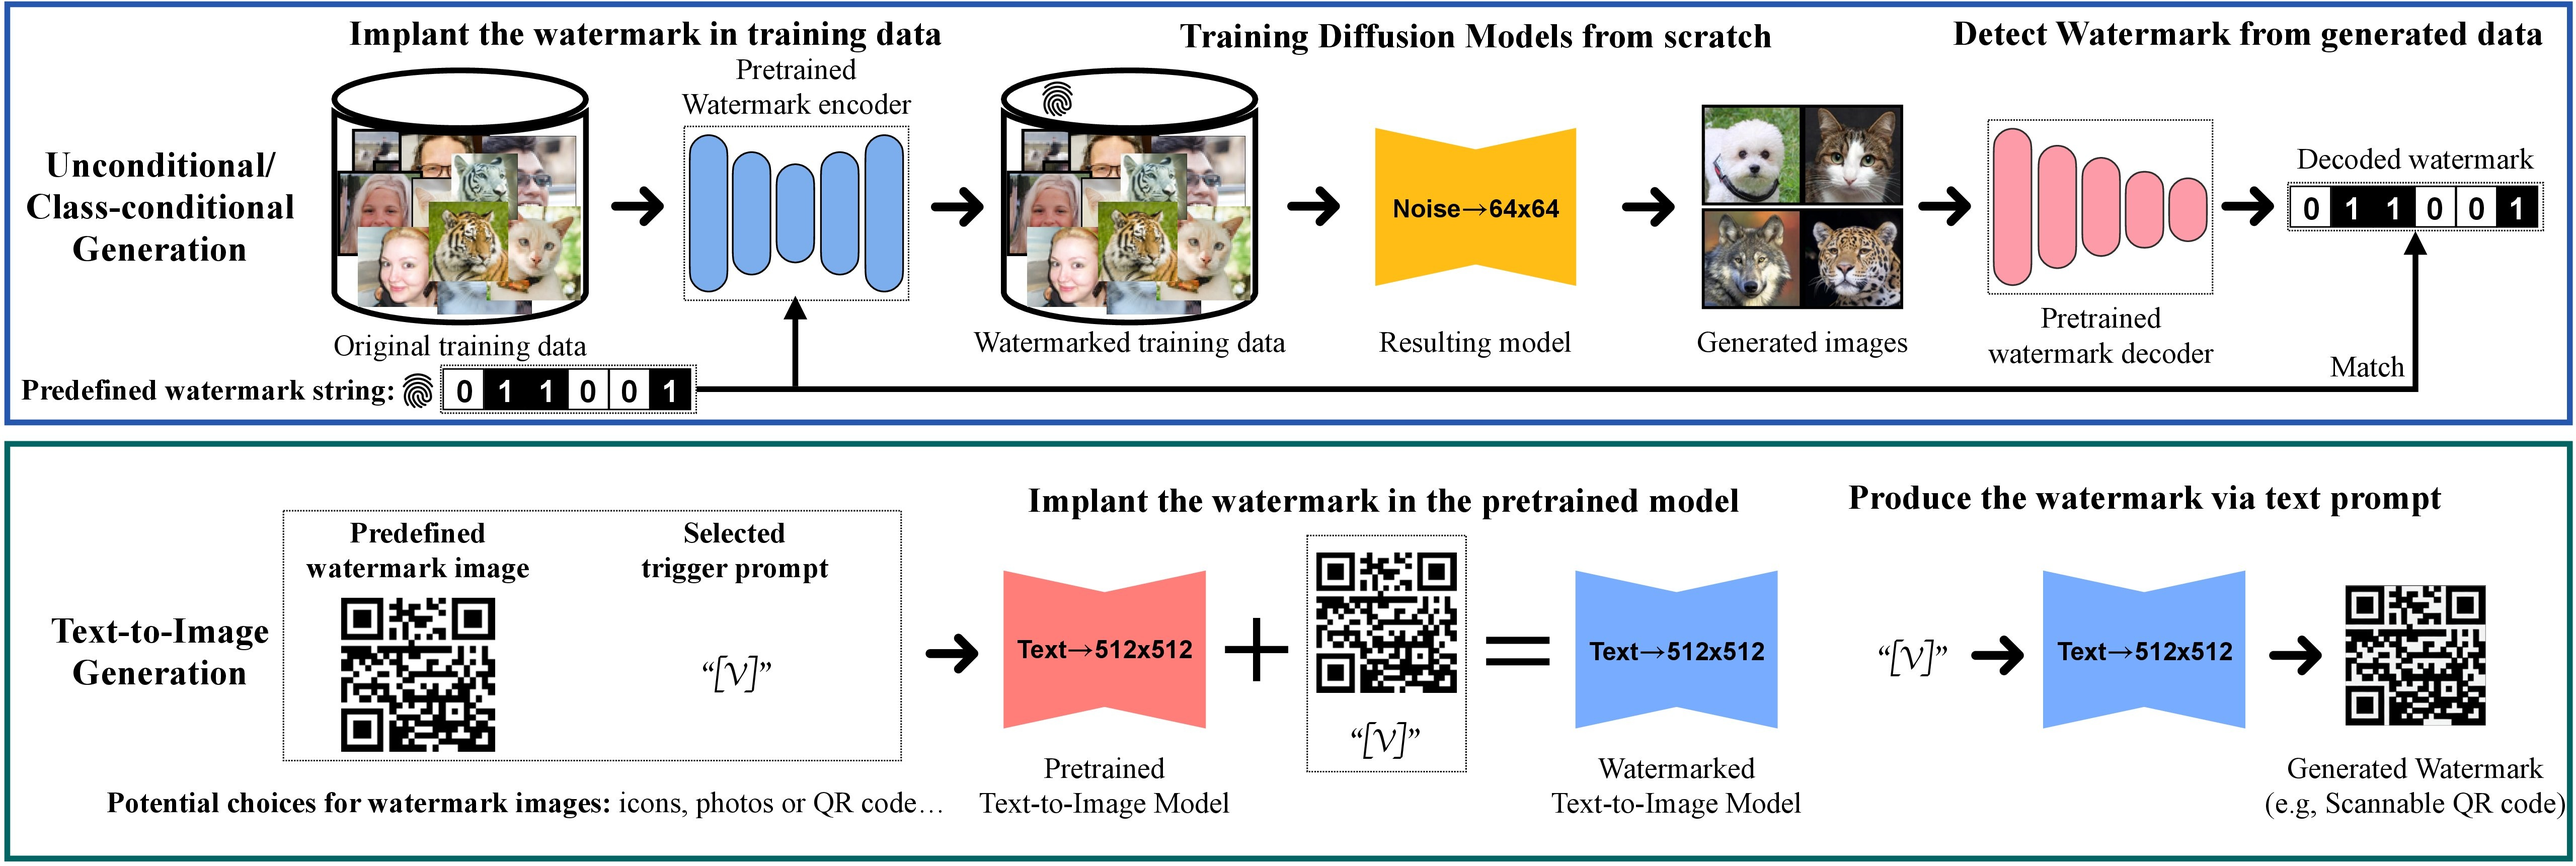
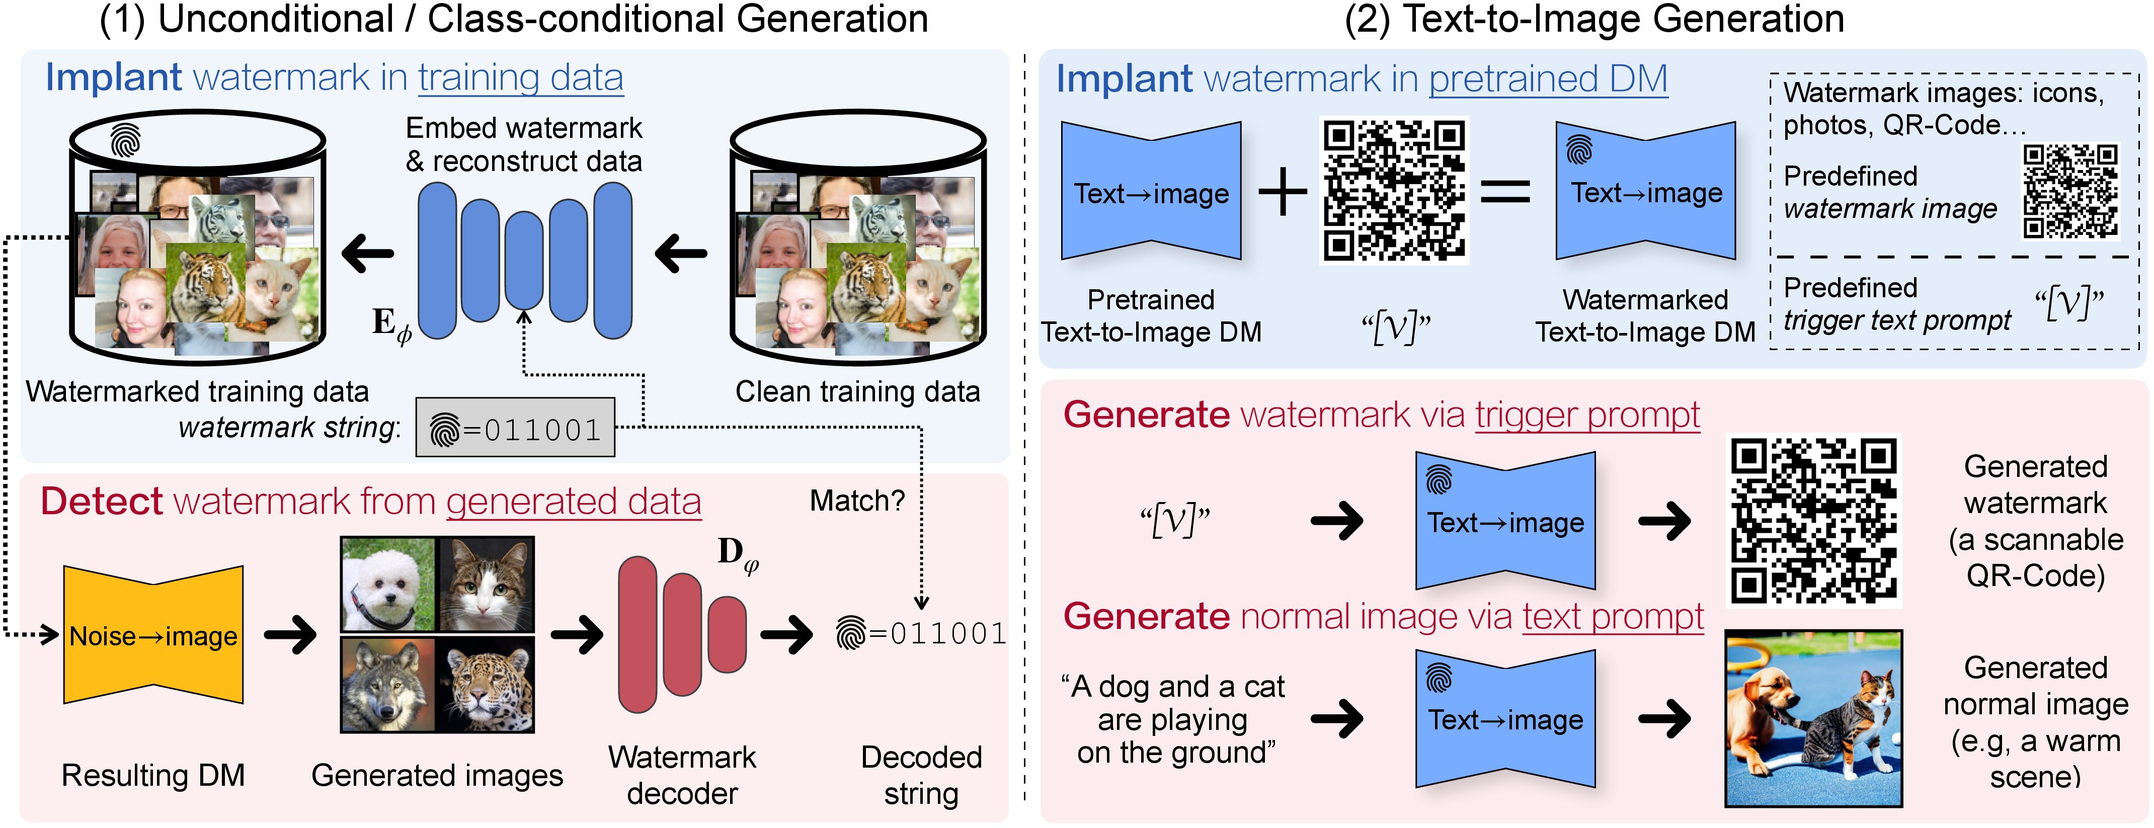
add images

diff --git a/index.html b/index.html
@@ -225,17 +225,17 @@
         <h2 class="title is-2" >Abstract</h2>
         <div class="content has-text-justified">
           <p>
-            Recently, diffusion models (DMs) have demonstrated their advantageous potential for generative tasks. 
-            Widespread interest exists in incorporating DMs into downstream applications, such as producing or editing photorealistic images.
-            <p>
-              However, practical deployment and unprecedented power of DMs raise legal issues, including copyright protection and monitoring of generated content. 
-              In this regard, watermarking has been a proven solution for copyright protection and content monitoring, but it is underexplored in the DMs literature. 
-              Specifically, DMs generate samples from longer tracks and may have newly designed multimodal structures, necessitating the modification of conventional watermarking pipelines. 
-            </p>
-            <p>
-              To this end, we conduct comprehensive analyses and derive a recipe for efficiently watermarking state-of-theart DMs (e.g., Stable Diffusion), via training from scratch or finetuning. 
-              Our recipe is straightforward but involves empirically ablated implementation details, providing a solid foundation for future research on watermarking DMs.
-            </p>
+            Diffusion models (DMs) have demonstrated advantageous potential on generative tasks. 
+            Widespread interest exists in incorporating DMs into downstream applications, such as producing or editing photorealistic images. 
+            However, practical deployment and unprecedented power of DMs raise legal issues, including copyright protection and monitoring of generated content.   
+          <p>
+            In this regard, watermarking has been a proven solution for copyright protection and content monitoring, but it is underexplored in the DMs literature. 
+            Specifically, DMs generate samples from longer tracks and may have newly designed multimodal structures, necessitating the modification of conventional watermarking pipelines. 
+          </p>
+          <p>
+            To this end, we conduct comprehensive analyses and derive a recipe for efficiently watermarking state-of-the-art DMs (e.g., Stable Diffusion), via training from scratch or finetuning. 
+            Our recipe is straightforward but involves empirically ablated implementation details, providing a foundation for future research on watermarking DMs.
+          </p>
         </p>
         </div>
       </div>
@@ -261,106 +261,41 @@
 
     <div class="columns is-centered">
 
-      <!-- Visual Effects. -->
-      <!-- <div class="column">
-        <div class="content">
-          <h2 class="title is-3">Visual Effects</h2>
-          <p>
-            Using <i>nerfies</i> you can create fun visual effects. This Dolly zoom effect
-            would be impossible without nerfies since it would require going through a wall.
-          </p>
-          <video id="dollyzoom" autoplay controls muted loop playsinline height="100%">
-            <source src="./static/videos/dollyzoom-stacked.mp4"
-                    type="video/mp4">
-          </video>
-        </div>
-      </div> -->
-      <!--/ Visual Effects. -->
-
-      <!-- Matting. -->
-      <!-- <div class="column">
-        <h2 class="title is-3">Matting</h2>
-        <div class="columns is-centered">
-          <div class="column content">
-            <p>
-              As a byproduct of our method, we can also solve the matting problem by ignoring
-              samples that fall outside of a bounding box during rendering.
-            </p>
-            <video id="matting-video" controls playsinline height="100%">
-              <source src="./static/videos/matting.mp4"
-                      type="video/mp4">
-            </video>
-          </div>
-
-        </div>
-      </div>
-    </div> -->
-    <!--/ Matting. -->
-
-    <!-- Animation. -->
     <div class="columns is-centered">
-      <!-- <div class="column is-full-width"> -->
-        <!-- <h2 class="title is-3">Animation</h2> -->
-
-        <!-- Interpolating. -->
-        <!-- <h3 class="title is-4">Interpolating states</h3>
-        <div class="content has-text-justified">
-          <p>
-            We can also animate the scene by interpolating the deformation latent codes of two input
-            frames. Use the slider here to linearly interpolate between the left frame and the right
-            frame.
-          </p>
-        </div>
-        <div class="columns is-vcentered interpolation-panel">
-          <div class="column is-3 has-text-centered">
-            <img src="./static/images/interpolate_start.jpg"
-                 class="interpolation-image"
-                 alt="Interpolate start reference image."/>
-            <p>Start Frame</p>
-          </div>
-          <div class="column interpolation-video-column">
-            <div id="interpolation-image-wrapper">
-              Loading...
-            </div>
-            <input class="slider is-fullwidth is-large is-info"
-                   id="interpolation-slider"
-                   step="1" min="0" max="100" value="0" type="range">
-          </div>
-          <div class="column is-3 has-text-centered">
-            <img src="./static/images/interpolate_end.jpg"
-                 class="interpolation-image"
-                 alt="Interpolation end reference image."/>
-            <p class="is-bold">End Frame</p>
-          </div>
-        </div>
-        <br/> -->
-        <!--/ Interpolating. -->
-
-        <!-- Re-rendering. -->
-        <!-- <h3 class="title is-4">Re-rendering the input video</h3>
-        <div class="content has-text-justified">
-          <p>
-            Using <span class="dnerf">Nerfies</span>, you can re-render a video from a novel
-            viewpoint such as a stabilized camera by playing back the training deformations.
-          </p>
-        </div>
-        <div class="content has-text-centered">
-          <video id="replay-video"
-                 controls
-                 muted
-                 preload
-                 playsinline
-                 width="75%">
-            <source src="./static/videos/replay.mp4"
-                    type="video/mp4">
-          </video>
-        </div> -->
-        <!--/ Re-rendering. -->
 
       </div>
     </div>
     <!-- / Animation. -->
 
+    <div class="columns is-centered">
+      <div class="column is-full-width">
+        <h2 class="title is-3">Illustration of Watermark DMs</h2>
+
+        <div class="content has-text-justified">
+			<center>
+				<table align=center width=950px>
+					<tr>
+						<td width=260px>
+							<left>
+                Unconditional/Class-conditional DMs (<b>Case-1</b>) and Multi-modal text-to-image DMs (<b>Case-2</b>)
+								<img class="round" style="width:950px" src="./assets/teaser.jpg"/>
+              </left>
+						</td>
+					</tr>
+				</table>
+				<table align=center width=880px>
+					<tr>
+						<td width=260px>
+							<!-- <center>
+								<img class="round" style="width:880px" src="./resources/method.jpg"/>
+							</center> -->
+						</td>
+					</tr>
+				</table>
+			</center>
+        </div>
+      </div>
+    </div>
 
     <!-- Overview -->
     <div class="columns is-centered">
@@ -373,33 +308,11 @@
 					<tr>
 						<td width=260px>
 							<left>
-                <b>Different Generation Types:</b> Unconditional/Class-conditional DMs (<b>Top</b>) and Multi-modal text-to-image DMs (<b>Bottom</b>)
 								<img class="round" style="width:950px" src="./assets/method-watermark.jpg"/>
               </left>
 						</td>
 					</tr>
 				</table>
-				<!-- <table align=center width=880px>
-					<tr>
-						<td>
-							<p style="text-align:justify; text-justify:inter-ideograph;">
-                <h4 class="title is-5">Contributions</h4>
-							<b>1: </b>
-							We consider the problem of FSIG with Transfer Learning using very limited target samples (e.g., 10-shot). <br>
-							<b>2: </b>
-							Our work makes two contributions: 
-							<ul>
-								<li>We discover that when the close proximity assumption between source-target domain is relaxed, SOTA FSIG methods, e.g., EWC (Li et al.), CDC (Ojha et al.), DCL (Zhao et al.), 
-                  which consider only source domain/source task in knowledge preserving perform no better than a baseline fine-tuning method, e.g., TGAN, (Wang et al.).</li>
-								<li>We propose a novel adaptation-aware kernel modulation for FSIG that achieves SOTA performance across source / target domains with different proximity. </li>
-							</ul>
-							<b>3: </b>
-							Schematic diagram of our proposed Importance Probing Mechanism: 
-              We measure the importance of each kernel for the target domain after probing and preserve source domain knowledge that is important for target domain adaptation. 
-              The same operations are applied to discriminator.
-						</td>
-					</tr>
-				</table> -->
 				<table align=center width=880px>
 					<tr>
 						<td width=260px>
@@ -427,6 +340,7 @@
 						<td width=260px>
 							<center>
 								<img class="round" style="width:950px" src="./assets/edm_vis_compare.jpg"/>
+                <img class="round" style="width:950px" src="./assets/bit-acc-vs-fid.jpg"/>
 							</center>
 						</td>
 					</tr>
@@ -453,6 +367,7 @@
 						<td width=260px>
               <center>
                 <img class="round" style="width:950px" src="./assets/sd_vis_compare.jpg"/>
+                <img class="round" style="width:950px" src="./assets/sd_vis_compare_legend.jpg"/>
               </center>
 						</td>
 					</tr>
